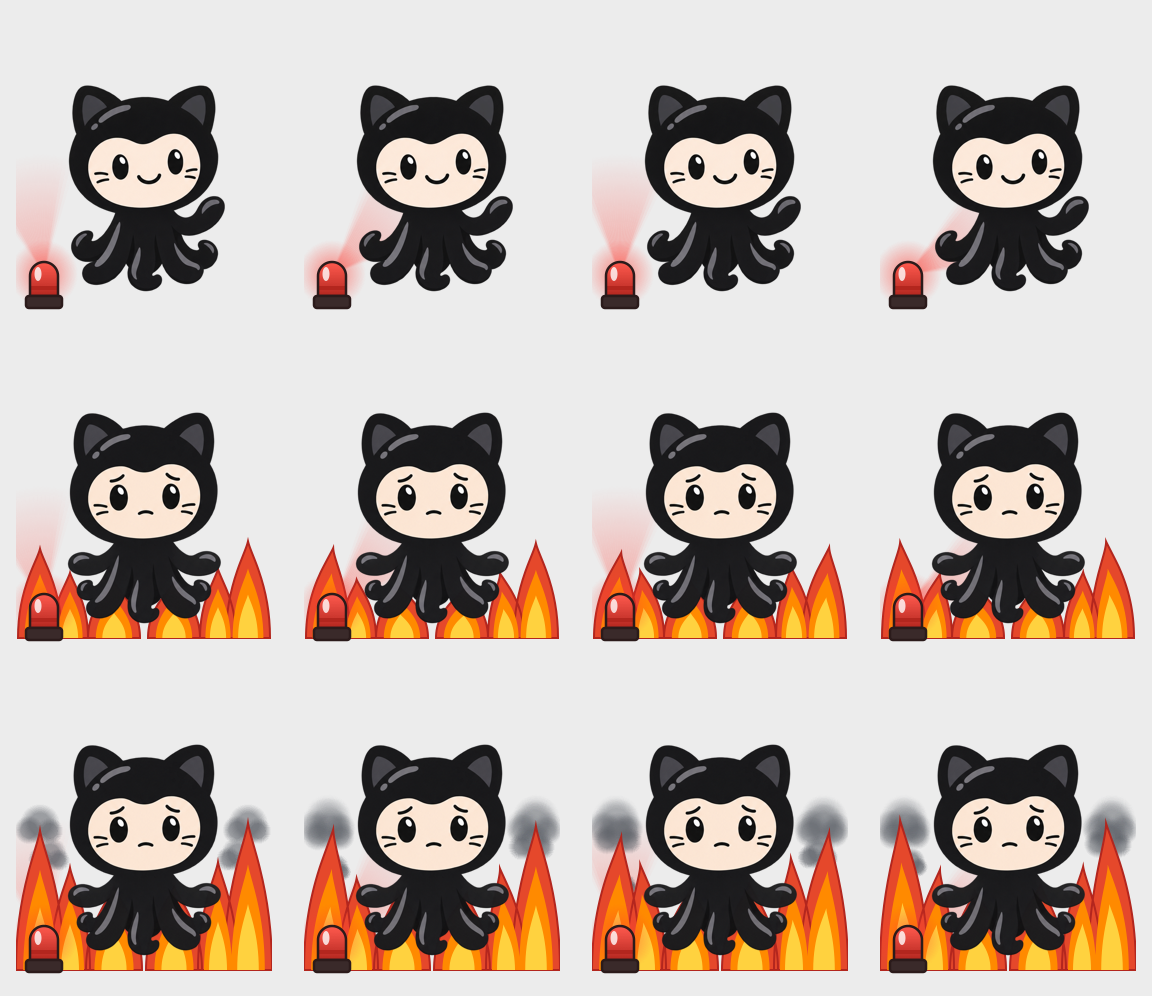
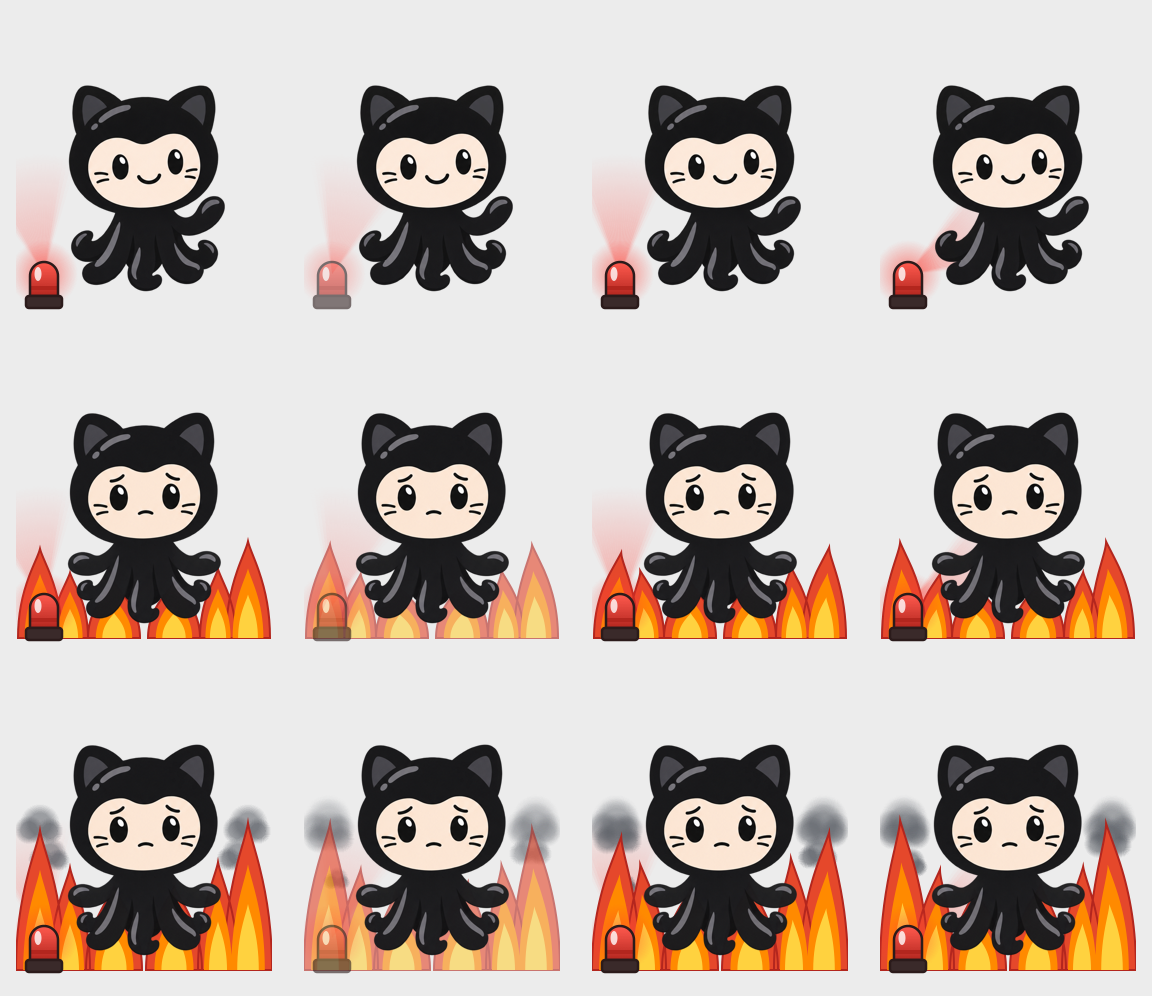
Fade the incident marker in by opacity, not flame height
Refs #37. Addresses Copilot on PR #38: the burst envelope now fades every
layer's opacity (flames and siren included) from 0 over 300 ms without
scaling flame height. The spec states that a tier rise fades in only the
newly added layers. The preview script checks the fade-in, and the preview
column at 0.05 s shows it mid-fade.

Changed region(s): [[0.25, 0.8092, 0.5, 0.996], [0.25, 0.5291, 0.5, 0.6536], [0.25, 0.2179, 0.3438, 0.3112]]

diff --git a/docs/design/incidents/render-incident-preview.swift b/docs/design/incidents/render-incident-preview.swift
@@ -147,8 +147,11 @@ func drawMarker(_ ctx: CGContext, tier: String, appearance: String, size: Int, t
         }
     }
 
-    // Flames.
+    // Flames: the fade-in envelope is opacity of the whole flame layer; heights are not scaled.
     if let tierFlames = tierSpec["flames"] as? String {
+        ctx.saveGState()
+        ctx.setAlpha(envelope)
+        ctx.beginTransparencyLayer(auxiliaryInfo: nil)
         let flames = dict(spec["flames"])
         let baseY = num(flames["baseY"])
         let shape = dict(flames["shape"])
@@ -161,7 +164,7 @@ func drawMarker(_ ctx: CGContext, tier: String, appearance: String, size: Int, t
             let path = CGMutablePath()
             for t in tongues(tier, size: size) {
                 var (h, lean) = flicker(t, time: time)
-                h *= num(layer["height"]) * envelope
+                h *= num(layer["height"])
                 let w = t.halfWidth * num(layer["width"])
                 lean *= num(layer["height"])
                 let tip = CGPoint(x: t.cx + lean, y: baseY - h)
@@ -184,9 +187,14 @@ func drawMarker(_ ctx: CGContext, tier: String, appearance: String, size: Int, t
                 ctx.strokePath()
             }
         }
+        ctx.endTransparencyLayer()
+        ctx.restoreGState()
     }
 
-    // Siren (same geometry as assets/mascots/mona-pet-v1/ui/incident-siren.svg).
+    // Siren (same geometry as assets/mascots/mona-pet-v1/ui/incident-siren.svg), faded in as one layer.
+    ctx.saveGState()
+    ctx.setAlpha(envelope)
+    ctx.beginTransparencyLayer(auxiliaryInfo: nil)
     let siren = dict(spec["siren"])
     let glow = dict(siren["glow"])
     let gc = nums(glow["center"])
@@ -232,6 +240,8 @@ func drawMarker(_ ctx: CGContext, tier: String, appearance: String, size: Int, t
     ctx.fillPath()
     ctx.addPath(basePath)
     ctx.strokePath()
+    ctx.endTransparencyLayer()
+    ctx.restoreGState()
 }
 
 // Panel geometry from the merged near-touch layout: panel W x H, lane L above the S x S art square.
@@ -242,7 +252,7 @@ let backgrounds: [String: CGColor] = [
 ]
 let scale: CGFloat = 2
 let frameFor: [String: String] = ["minor": "attention-03", "major": "urgent-00", "critical": "urgent-00"]
-let columns: [(label: String, time: Double?)] = [("static", nil), ("burst 0.15 s", 0.15), ("burst 1.2 s", 1.2), ("burst 2.6 s", 2.6)]
+let columns: [(label: String, time: Double?)] = [("static", nil), ("burst 0.05 s", 0.05), ("burst 1.2 s", 1.2), ("burst 2.6 s", 2.6)]
 let tiers = ["minor", "major", "critical"]
 
 var keepOutReport: [String] = []
@@ -319,13 +329,33 @@ func checkKeepOut() {
     }
 }
 
+// Fade-in check: a new-incident burst starts fully transparent and reaches full opacity at fadeInMs.
+func checkFadeIn() {
+    let fadeIn = num(dict(spec["timing"])["fadeInMs"]) / 1000
+    for tier in tiers {
+        var coverage: [Int] = []
+        for time in [0.0, Double(fadeIn) / 2, Double(fadeIn)] {
+            let ctx = CGContext(data: nil, width: 256, height: 256, bitsPerComponent: 8, bytesPerRow: 256 * 4,
+                                space: CGColorSpace(name: CGColorSpace.sRGB)!,
+                                bitmapInfo: CGImageAlphaInfo.premultipliedLast.rawValue)!
+            ctx.translateBy(x: 0, y: 256); ctx.scaleBy(x: 1, y: -1)
+            drawMarker(ctx, tier: tier, appearance: "light", size: 128, time: time, unitsPerPt: 2)
+            let data = ctx.data!.assumingMemoryBound(to: UInt8.self)
+            coverage.append((0..<(256 * 256)).reduce(0) { $0 + Int(data[$1 * 4 + 3]) })
+        }
+        let pass = coverage[0] == 0 && coverage[1] > 0 && coverage[1] < coverage[2]
+        keepOutReport.append("fade-in @128 \(tier): summed alpha at 0 / \(Int(fadeIn * 500)) / \(Int(fadeIn * 1000)) ms = \(coverage.map(String.init).joined(separator: " / ")) \(pass ? "PASS" : "FAIL")")
+    }
+}
+
 for size in [64, 128, 256] {
     for appearance in ["light", "dark"] { try renderSheet(size: size, appearance: appearance, annotate: false) }
 }
 try renderSheet(size: 128, appearance: "light", annotate: true)
 checkKeepOut()
+checkFadeIn()
 let report = (["Design previews of incident-marker.json drawn with CoreGraphics behind real mona-pet-v1 frames.",
-               "Not native MascotView renders; labels (DEMO/count) are not drawn. Columns: static, burst 0.15/1.2/2.6 s. Rows: minor, major, critical."]
+               "Not native MascotView renders; labels (DEMO/count) are not drawn. Columns: static, burst 0.05/1.2/2.6 s (0.05 s is mid fade-in of a new incident). Rows: minor, major, critical."]
               + keepOutReport).joined(separator: "\n") + "\n"
 try report.write(to: outDir.appendingPathComponent("preview-report.txt"), atomically: true, encoding: .utf8)
 print(report)

diff --git a/docs/design/incidents/incident-marker.md b/docs/design/incidents/incident-marker.md
@@ -77,7 +77,7 @@ At 64 pt:
 ## Motion
 
 - **Burst:** about 6 s at 30 fps:
-  - 300 ms fade-in, eased with `cubic-bezier(0.2,0.8,0.2,1)`;
+  - 300 ms opacity fade-in from 0, eased with `cubic-bezier(0.2,0.8,0.2,1)`. Flame heights are not scaled. For a new incident every layer fades in, including the siren. On a tier rise only the newly added layers fade in, and layers already shown stay fully opaque, so the siren never blinks out;
   - full motion;
   - a 600 ms crossfade to the static frame, with no snap.
 - **What starts a burst:**
@@ -137,7 +137,7 @@ The `previews/` folder holds design previews. They are not native MascotView ren
 - **Sizes:** 64, 128 and 256 pt.
 - **Appearance:** light and dark.
 - **Scale:** 2× pixels.
-- **Columns:** static, then burst at 0.15, 1.2 and 2.6 s.
+- **Columns:** static, then burst at 0.05 s (mid fade-in of a new incident), 1.2 s and 2.6 s.
 - **Rows:** minor, major, critical.
 
 `incident-128-light-keepout.png` outlines the lane plus the y < 64 keep-out band in blue. These are still images, so they show neither motion quality nor timing. Live QA must judge both with Reduce Motion off.
